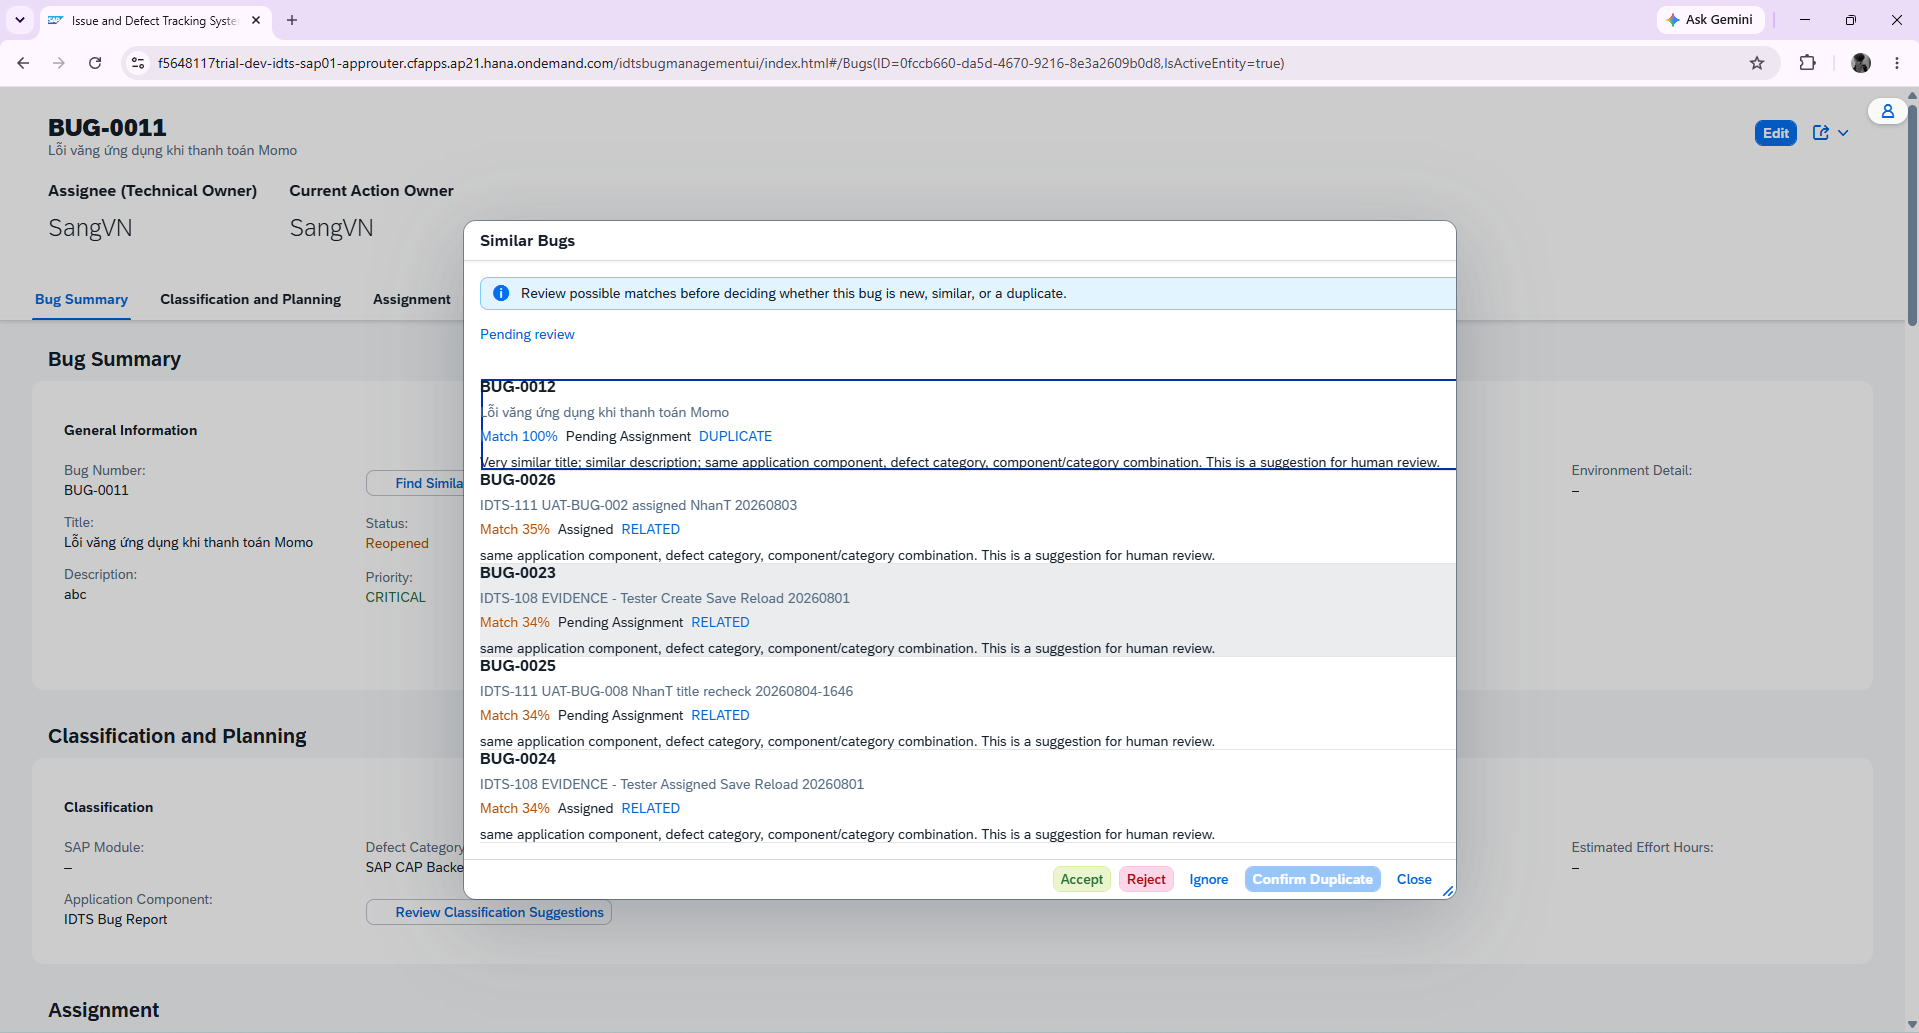
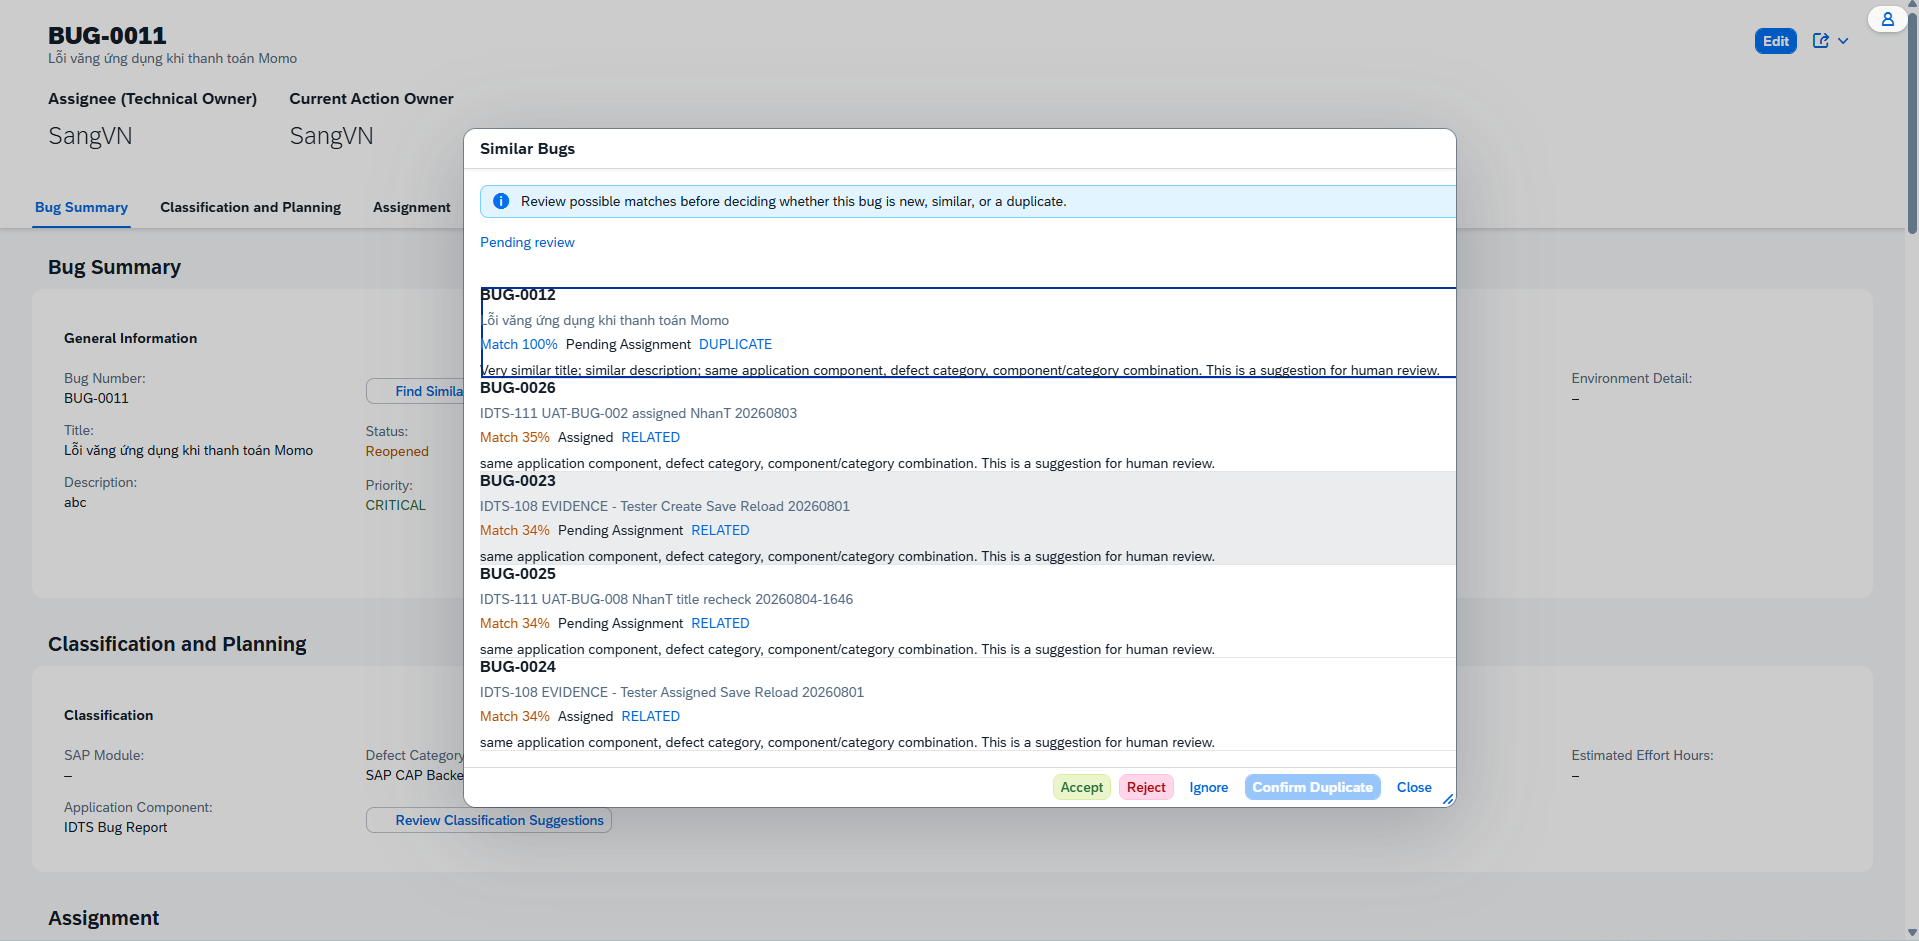
docs(idts-111): make follow-up evidence reproducible

diff --git a/docs/pm/status/nhant.md b/docs/pm/status/nhant.md
@@ -212,7 +212,7 @@ Vietnamese:
 - 2026-08-04 follow-up tooling issues: mandatory `officecli --version` remains unavailable; several in-app browser screenshot calls timed out, one browser target reset, the first attachment click selector was ambiguous, and the first follow-up worktree creation needed narrow Git metadata approval. Classification: tooling/environment issues. Status: browser state was recovered, exact fixture upload and DOM/OData observations completed, sanitized visual trace cards were generated separately, and no failed screenshot was presented as product evidence.
 - 2026-08-04 follow-up evidence rendering issue: the first Sharp SVG-to-PNG batch could read the cards but could not write PNG files inside the separate worktree (`Permission denied`; font cache warnings also appeared). Classification: tooling/sandbox issue, not evidence or product failure. Status: reran the same scoped render with approved worktree write access; all seven PNG cards were generated and then hash-verified.
 - 2026-08-04 follow-up PR-body command issue: the first local QA Depth invocation passed the body path without the required `--body-file` flag, so the checker read an empty body and reported all sections missing. Classification: tooling/command-usage issue. Status: reran with `--body-file`; all 11 required sections passed.
-- 2026-08-05 IDTS-111 UAT-UX-003 member confirmation: NhanT completed the physical-keyboard check on deployed runtime `67b1bf86169e9696c9365ef4846b99ffae30d4e2`. Create-form and Object Page comment/action focus order were logical; Enter opened Similar Bugs, Escape closed it, and focus returned to the trigger. Inside the dialog, Tab reached only the first similar-bug result and skipped the remaining results. Classification: accessibility defect candidate pending DonHV disposition. Candidate outcome: `DOES_NOT_MEET_EXPECTED_RESULT`. Evidence: member-filled template plus `UAT-UX-003-trigger-focus.png` and `UAT-UX-003-first-result-focus.png`; static images support, but do not replace, NhanT's physical-keyboard observation. Mandatory OfficeCLI remains unavailable, so no workbook/Drive artifact was changed.
+- 2026-08-05 IDTS-111 UAT-UX-003 member confirmation: NhanT completed the physical-keyboard check on deployed runtime `67b1bf86169e9696c9365ef4846b99ffae30d4e2`. Create-form and Object Page comment/action focus order were logical; Enter opened Similar Bugs, Escape closed it, and focus returned to the trigger. Inside the dialog, Tab reached only the first similar-bug result and skipped the remaining results. Classification: accessibility defect candidate pending DonHV disposition. Candidate outcome: `DOES_NOT_MEET_EXPECTED_RESULT`. Evidence: member-owned physical-keyboard execution record plus `UAT-UX-003-trigger-focus.png` and `UAT-UX-003-first-result-focus.png`; static images support, but do not replace, NhanT's physical-keyboard observation. Mandatory OfficeCLI remains unavailable, so no workbook/Drive artifact was changed.
 - Transient 2026-08-05 evidence-read command issue: one combined read requested a nonexistent follow-up-local `pr-body.md` after successfully reading `manifest.json` and `README.md`; the actual PR-body source is outside that subdirectory. Classification: tooling/command-path issue; no artifact content or result changed. Status: use confirmed paths only and update the existing PR body separately after the scoped evidence commit.
 - Transient 2026-08-05 integrity-command quoting issue: the first inline `node -e` hash check was rewritten by the Windows shell and failed with a JavaScript syntax error before reading the manifest. Classification: tooling/command-quoting issue; no evidence assertion ran and no result was promoted. Status: move the same read-only check into a temporary script outside the repository, rerun it, and report only that fresh result.
 - 2026-08-05 IDTS-111 UX-003 external handoff: commit `69b402c` was pushed to PR #284, GitHub QA Depth run `30972493973` passed, the PR body was updated to the member-confirmed candidate negative, and Jira comment `10984` records the exact head, runtime SHA, two evidence files, and DonHV-owned final disposition. PR #284 remained behind `dev`; no merge/rebase/force-push, workbook/Drive update, or final UAT approval was performed.

diff --git a/docs/pm/evidence/idts-111/followup/2026-08-04-nhant/README.md b/docs/pm/evidence/idts-111/followup/2026-08-04-nhant/README.md
@@ -27,4 +27,4 @@ This directory contains new member-owned evidence requested in Jira comment `109
 
 The case-named PNG/SVG cards are authored trace summaries assembled from the recorded SAP UI/OData observations. They are not independent browser screenshots and must not be used alone to prove runtime execution.
 
-`01-uat-att-001-active-before-reload.png`, `UAT-UX-003-trigger-focus.png`, and `UAT-UX-003-first-result-focus.png` are product/browser screenshots. No credential, token, cookie, private endpoint, full email, or raw AI payload is stored.
+`01-uat-att-001-active-before-reload.png`, `UAT-UX-003-trigger-focus.png`, and `UAT-UX-003-first-result-focus.png` are product/browser screenshots. Browser chrome and the deployed host were removed from the UX-003 screenshots. No credential, token, cookie, private endpoint, full email, or raw AI payload is stored.
